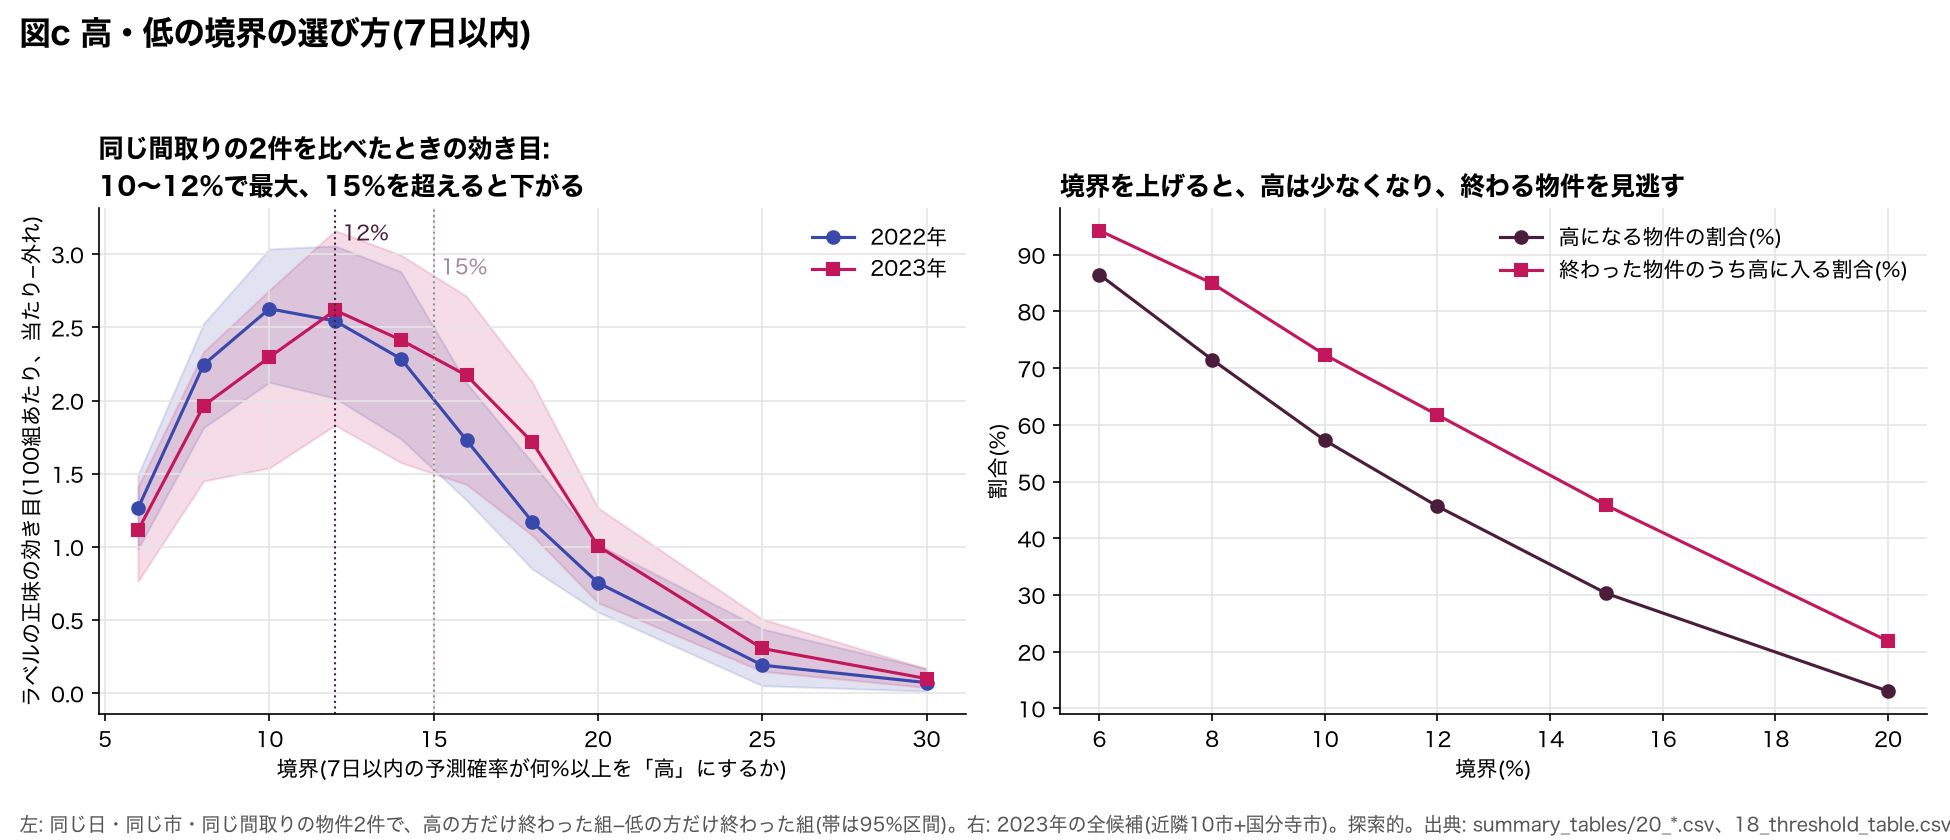
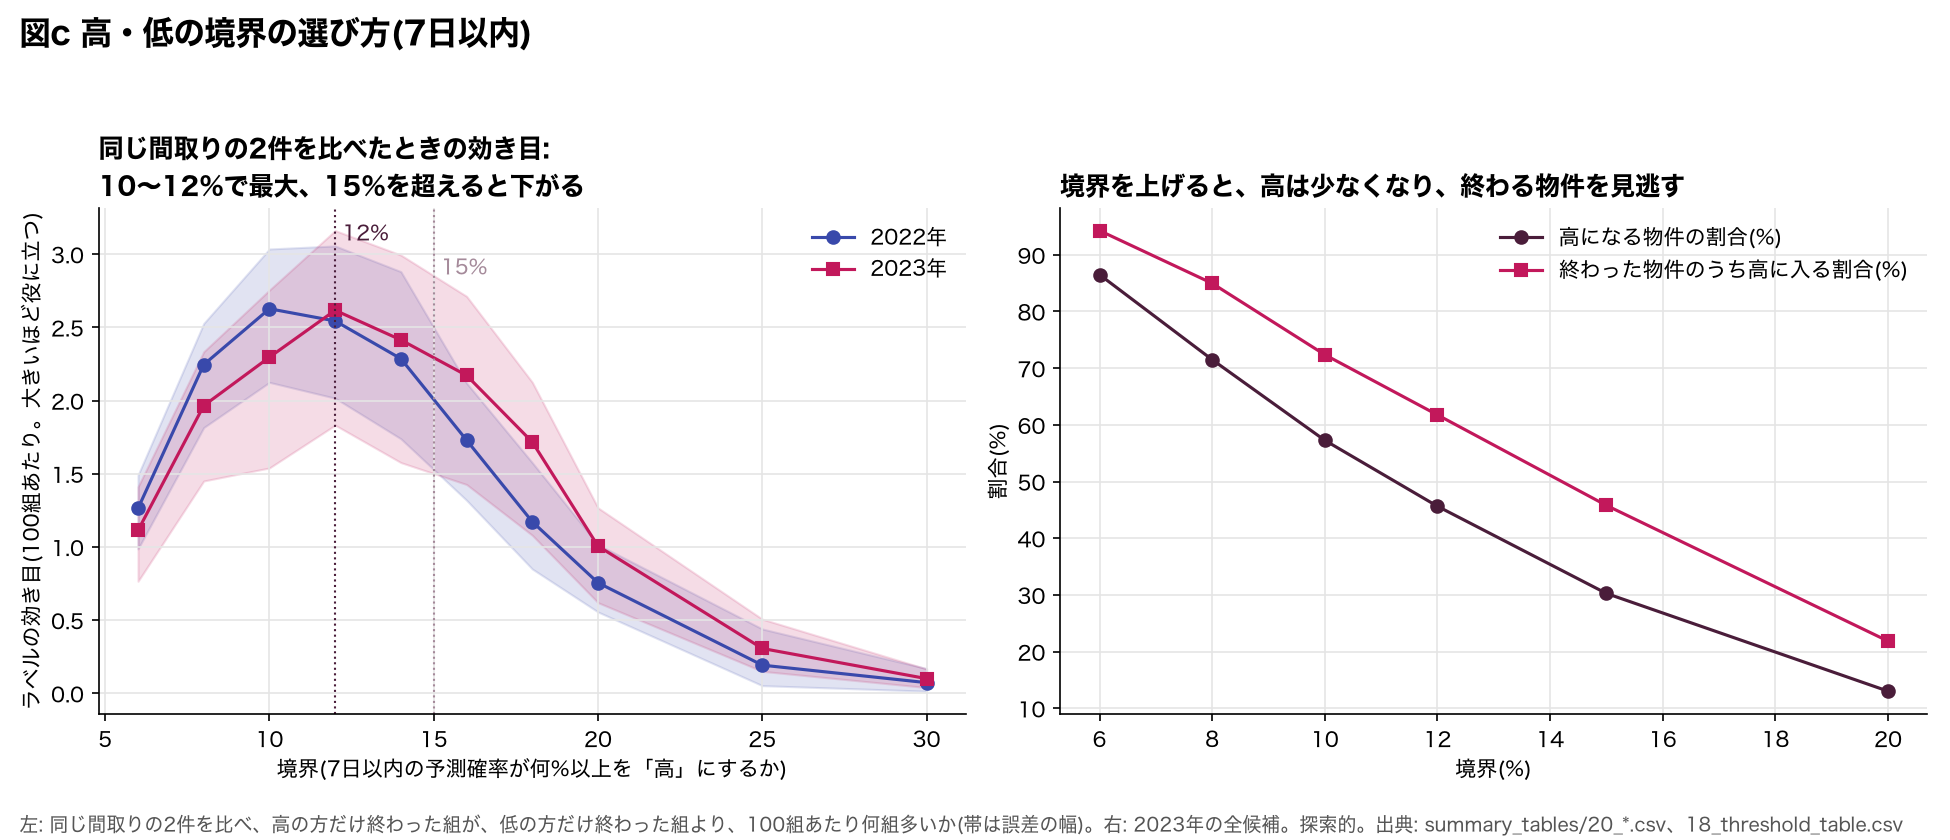
Plainer wording in figure 23c (boundary choice)

Changed region(s): [[0.0308, 0.9595, 1.0, 0.9905], [0.0, 0.2476, 0.0308, 0.8048]]

diff --git a/Ohori/analysis/23_report_figures.py b/Ohori/analysis/23_report_figures.py
@@ -104,7 +104,7 @@ def fig_c() -> None:
     ax[0].text(12, ax[0].get_ylim()[1] * 0.97, " 12%", color=INK, fontsize=10, va="top")
     ax[0].text(15, ax[0].get_ylim()[1] * 0.90, " 15%", color=GRAY, fontsize=10, va="top")
     ax[0].set_xlabel("境界(7日以内の予測確率が何%以上を「高」にするか)")
-    ax[0].set_ylabel("ラベルの正味の効き目(100組あたり、当たり−外れ)")
+    ax[0].set_ylabel("ラベルの効き目(100組あたり。大きいほど役に立つ)")
     ax[0].set_title("同じ間取りの2件を比べたときの効き目:\n10〜12%で最大、15%を超えると下がる", loc="left", fontsize=12, fontweight="bold")
     ax[0].legend(frameon=False)
     ax[0].grid(color="#e5e5e5")
@@ -116,7 +116,7 @@ def fig_c() -> None:
     ax[1].legend(frameon=False)
     ax[1].grid(color="#e5e5e5")
     finish(fig, "23c_boundary_choice.png", "図c 高・低の境界の選び方(7日以内)",
-           "左: 同じ日・同じ市・同じ間取りの物件2件で、高の方だけ終わった組−低の方だけ終わった組(帯は95%区間)。右: 2023年の全候補(近隣10市+国分寺市)。探索的。出典: summary_tables/20_*.csv、18_threshold_table.csv")
+           "左: 同じ間取りの2件を比べ、高の方だけ終わった組が、低の方だけ終わった組より、100組あたり何組多いか(帯は誤差の幅)。右: 2023年の全候補。探索的。出典: summary_tables/20_*.csv、18_threshold_table.csv")
 
 
 def fig_d() -> None:
